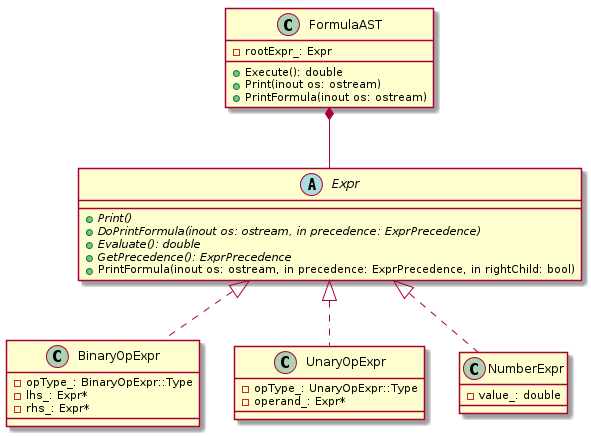
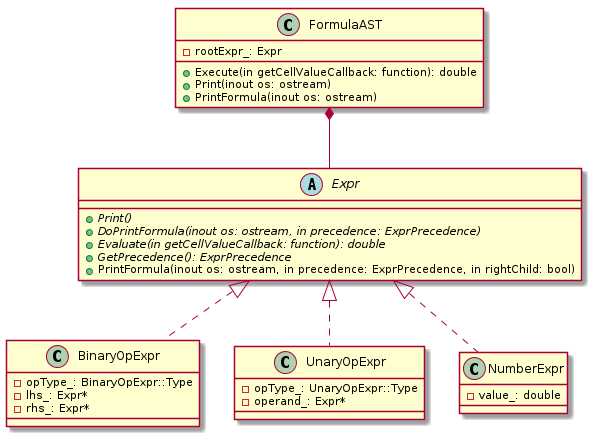
Add GetCellValue() callback

Changed region(s): [[0.2741, 0.0, 0.8528, 0.2683], [0.2437, 0.5367, 0.6396, 0.5665]]

diff --git a/headers/common.h b/headers/common.h
@@ -35,29 +35,29 @@ struct Size {
 
 // Описывает ошибки, которые могут возникнуть при вычислении формулы.
 class FormulaError : public std::runtime_error {
-public:
+ public:
   using std::runtime_error::runtime_error;
 };
 
-std::ostream &operator<<(std::ostream &output, FormulaError fe);
+std::ostream& operator<<(std::ostream& output, FormulaError fe);
 
 // Исключение, выбрасываемое при попытке задать синтаксически некорректную
 // формулу
 class FormulaException : public std::runtime_error {
-public:
+ public:
   using std::runtime_error::runtime_error;
 };
 
 // Исключение, выбрасываемое при попытке передать в метод некорректную позицию
 class InvalidPositionException : public std::out_of_range {
-public:
+ public:
   using std::out_of_range::out_of_range;
 };
 
 // Исключение, выбрасываемое, если вставка строк/столбцов в таблицу приведёт к
 // ячейке с позицией больше максимально допустимой
 class TableTooBigException : public std::runtime_error {
-public:
+ public:
   using std::runtime_error::runtime_error;
 };
 
@@ -65,7 +65,7 @@ inline constexpr char FORMULA_SIGN = '=';
 inline constexpr char ESCAPE_SIGN = '\'';
 
 class CellInterface {
-public:
+ public:
   // Либо текст ячейки, либо значение формулы, либо сообщение об ошибке из
   // формулы
   using Value = std::variant<std::string, double, FormulaError>;
@@ -93,7 +93,7 @@ public:
 
 // Интерфейс таблицы
 class SheetInterface {
-public:
+ public:
   virtual ~SheetInterface() = default;
 
   // Задаёт содержимое ячейки.
@@ -104,8 +104,8 @@ public:
 
   // Возвращает значение ячейки.
   // Если ячейка пуста, может вернуть nullptr.
-  virtual const CellInterface *GetCell(Position pos) const = 0;
-  virtual CellInterface *GetCell(Position pos) = 0;
+  virtual const CellInterface* GetCell(Position pos) const = 0;
+  virtual CellInterface* GetCell(Position pos) = 0;
 
   // Очищает ячейку.
   // Последующий вызов GetCell() для этой ячейки вернёт либо nullptr, либо
@@ -121,8 +121,10 @@ public:
   // табуляции. После каждой строки выводится символ перевода строки. Для
   // преобразования ячеек в строку используются методы GetValue() или GetText()
   // соответственно. Пустая ячейка представляется пустой строкой в любом случае.
-  virtual void PrintValues(std::ostream &output) const = 0;
-  virtual void PrintTexts(std::ostream &output) const = 0;
+  virtual void PrintValues(std::ostream& output) const = 0;
+  virtual void PrintTexts(std::ostream& output) const = 0;
+
+  FormulaInterface::Value GetCellValue(std::string_view str) const = 0;
 };
 
 // Создаёт готовую к работе пустую таблицу.

diff --git a/headers/formula.h b/headers/formula.h
@@ -1,22 +1,24 @@
 #pragma once
 
-#include "FormulaAST.h"
-#include "common.h"
 #include <memory>
 #include <variant>
+#include "FormulaAST.h"
+#include "common.h"
 
 // Формула, позволяющая вычислять и обновлять арифметическое выражение.
 // Поддерживаемые возможности:
 // * Простые бинарные операции и числа, скобки: 1+2*3, 2.5*(2+3.5/7)
 class FormulaInterface {
-public:
+ public:
   using Value = std::variant<double, FormulaError>;
 
   virtual ~FormulaInterface() = default;
 
   // Возвращает вычисленное значение формулы либо ошибку. На данном этапе
   // мы создали только 1 вид ошибки -- деление на 0.
-  virtual Value Evaluate() const = 0;
+  virtual Value Evaluate(
+      std::function<FormulaInterface::Value(std::string_view)>
+          getCellValueCallback) const = 0;
 
   // Возвращает выражение, которое описывает формулу.
   // Не содержит пробелов и лишних скобок.
@@ -28,36 +30,28 @@ public:
 std::unique_ptr<FormulaInterface> ParseFormula(std::string expression);
 
 // -------------------------------------------------------------------------
-// class Formula : public FormulaInterface {
-//  public:
-//   // Реализуйте следующие методы:
-//   explicit Formula(std::string expression)
-//       : ast_(ParseFormulaAST(expression)) {}
+class Formula : public FormulaInterface {
+ public:
+  // Реализуйте следующие методы:
+  explicit Formula(std::string expression)
+      : ast_(ParseFormulaAST(expression)) {}
 
-//   Value Evaluate() const override {
-//     try {
-//       return ast_.Execute();
-//     } catch (const FormulaError& error) {
-//       return error;
-//     }
-//     return FormulaError("");
-//   }
+  Value Evaluate(std::function<FormulaInterface::Value(std::string_view)>
+                     getCellValueCallback) const override {
+    try {
+      return ast_.Execute();
+    } catch (const FormulaError& error) {
+      return error;
+    }
+    return FormulaError("");
+  }
 
-//   std::string GetExpression() const override {
-//     std::stringstream ss;
-//     ast_.PrintFormula(ss);
-//     return ss.str();
-//   }
+  std::string GetExpression() const override {
+    std::stringstream ss;
+    ast_.PrintFormula(ss);
+    return ss.str();
+  }
 
-//  private:
-//   FormulaAST makeFormulaAst(const std::string& expression) {
-//     try {
-//       return ParseFormulaAST(expression);
-//     } catch (...) {
-//     }
-//     throw FormulaException("");
-//   }
-
-//  private:
-//   FormulaAST ast_;
-// };
+ private:
+  FormulaAST ast_;
+};

diff --git a/headers/FormulaAST.h b/headers/FormulaAST.h
@@ -16,35 +16,39 @@ class ParsingError : public std::runtime_error {
 };
 
 class FormulaAST {
-public:
+ public:
   explicit FormulaAST(std::unique_ptr<ASTImpl::Expr> root_expr);
-  FormulaAST(FormulaAST &&) = default;
-  FormulaAST &operator=(FormulaAST &&) = default;
+  FormulaAST(FormulaAST&&) = default;
+  FormulaAST& operator=(FormulaAST&&) = default;
   ~FormulaAST();
 
-  double Execute() const;
-  void Print(std::ostream &out) const;
-  void PrintFormula(std::ostream &out) const;
+  double Execute(std::function<FormulaInterface::Value(std::string_view)>
+                     getCellValueCallback) const;
+  void Print(std::ostream& out) const;
+  void PrintFormula(std::ostream& out) const;
 
-private:
+ private:
   std::unique_ptr<ASTImpl::Expr> root_expr_;
 };
 
-FormulaAST ParseFormulaAST(std::istream &in);
-FormulaAST ParseFormulaAST(const std::string &in_str);
+FormulaAST ParseFormulaAST(std::istream& in);
+FormulaAST ParseFormulaAST(const std::string& in_str);
 
 // -----------------------------------------------------------
 class Expr {
-public:
+ public:
   virtual ~Expr() = default;
-  virtual void Print(std::ostream &out) const = 0;
-  virtual void DoPrintFormula(std::ostream &out,
+  virtual void Print(std::ostream& out) const = 0;
+  virtual void DoPrintFormula(std::ostream& out,
                               ExprPrecedence precedence) const = 0;
-  virtual double Evaluate() const = 0;
+  virtual double Evaluate(
+      std::function<FormulaInterface::Value(std::string_view)>
+          getCellValueCallback) const = 0;
 
   // higher is tighter
   virtual ExprPrecedence GetPrecedence() const = 0;
 
-  void PrintFormula(std::ostream &out, ExprPrecedence parent_precedence,
+  void PrintFormula(std::ostream& out,
+                    ExprPrecedence parent_precedence,
                     bool right_child = false) const;
 };

diff --git a/headers/sheet.h b/headers/sheet.h
@@ -23,8 +23,16 @@ class Sheet : public SheetInterface {
   void PrintValues(std::ostream& output) const override;
   void PrintTexts(std::ostream& output) const override;
 
-  // Можете дополнить ваш класс нужными полями и методами
+  // - Преобразуем str в позицию
+  // - проверяем, валидна ли позиция
+  // - получаем значение
+  //   если значение double, возвращаем double
+  //   если значение string, то пытаемся преобразовать в double,
+  //     если получилось, возвращаем double
+  //     если нет - ошибку
+  //   если значение ошибка, то возвращаем ошибку
+  FormulaInterface::Value GetCellValue(std::string_view str) const override;
 
  private:
-  std::vector<std::vector<std::unique_ptr<CellInterface>>> sheet_;
+  std::vector<std::vector<std::unique_ptr<CellInterface>>> cells_;
 };

diff --git a/headers/cell.h b/headers/cell.h
@@ -27,7 +27,9 @@ private:
 // ------------------------------------------------------------
 class Cell::Impl {
 public:
-  virtual CellInterface::Value GetValue() const = 0;
+  virtual CellInterface::Value
+  GetValue(std::function<FormulaInterface::Value(std::string_view)>
+               getCellValueCallback) const = 0;
   virtual std::string GetText() const = 0;
   virtual ~Impl() = default;
 };
@@ -38,7 +40,9 @@ public:
 
   void Set(const std::string &text);
 
-  CellInterface::Value GetValue() const override;
+  CellInterface::Value
+  GetValue(std::function<FormulaInterface::Value(std::string_view)>
+               getCellValueCallback) const override;
 
   std::string GetText() const override;
 
